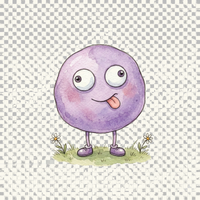
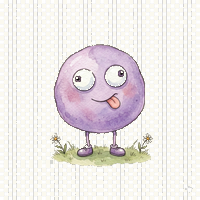
Kids: Szachownica usunięta — wykrycie i zamiana wmalowanych szarych pikseli na krem
Gemini generował 'przezroczystość' jako szare piksele (168,168,168) wmalowane
w obraz. Nowy algorytm wykrywa neutralne szare piksele (saturation<12,
value 140-210) i zamienia je na tło kremowe #FBF9EF. 29 obrazków przetworzonych.

diff --git a/kids/index.html b/kids/index.html
@@ -220,7 +220,7 @@ body{display:flex;justify-content:center;align-items:center}
 </script>
 <div id="app">
   <div id="start-screen" class="screen active">
-    <div class="start-character"><img src="img/zaehni-brush.png?v=3" alt="Zähni"></div>
+    <div class="start-character"><img src="img/zaehni-brush.png?v=4" alt="Zähni"></div>
     <div class="start-title"><h1>FRYDENT Kids</h1><div class="subtitle">Zahnspiele mit Zähni</div></div>
     <div class="divider"></div>
     <button class="start-btn" onclick="showScreen('age-screen');playSound('click')">Los geht's!</button>
@@ -231,15 +231,15 @@ body{display:flex;justify-content:center;align-items:center}
     <div class="age-header"><h2>Wähle deine Gruppe!</h2><p>Wie alt bist du?</p></div>
     <div class="age-cards">
       <div class="age-card" onclick="selectAge('tiny');playSound('click')">
-        <div class="age-card-icon"><img src="img/zaehni-welcome.png?v=3" alt=""></div>
+        <div class="age-card-icon"><img src="img/zaehni-welcome.png?v=4" alt=""></div>
         <div class="age-card-text"><h3 style="color:var(--rose)">Zahnzwerge</h3><div class="age-range">3 – 5 Jahre</div><div class="age-desc">Bläschen, Zähneputzen, Zuordnen &amp; mehr</div></div>
       </div>
       <div class="age-card" onclick="selectAge('mid');playSound('click')">
-        <div class="age-card-icon"><img src="img/zaehni-brush.png?v=3" alt=""></div>
+        <div class="age-card-icon"><img src="img/zaehni-brush.png?v=4" alt=""></div>
         <div class="age-card-text"><h3 style="color:var(--sage)">Zahnforscher</h3><div class="age-range">5 – 7 Jahre</div><div class="age-desc">Memory, Quiz &amp; Bakterien fangen</div></div>
       </div>
       <div class="age-card" onclick="selectAge('big');playSound('click')">
-        <div class="age-card-icon"><img src="img/zaehni-detective.png?v=3" alt=""></div>
+        <div class="age-card-icon"><img src="img/zaehni-detective.png?v=4" alt=""></div>
         <div class="age-card-text"><h3 style="color:var(--lavender)">Zahndetektive</h3><div class="age-range">7 – 10 Jahre</div><div class="age-desc">Großes Memory, Quiz, Jagd &amp; Diplom</div></div>
       </div>
     </div>
@@ -249,7 +249,7 @@ body{display:flex;justify-content:center;align-items:center}
     <div class="hub-header">
       <button class="btn-round" onclick="showScreen('age-screen');playSound('click')">←</button>
       <div class="hub-title"><h2 id="hub-group-name"></h2><div class="stars-display" id="hub-stars"></div></div>
-      <div class="hub-mascot"><img id="hub-mascot-img" src="img/zaehni-welcome.png?v=3" alt=""></div>
+      <div class="hub-mascot"><img id="hub-mascot-img" src="img/zaehni-welcome.png?v=4" alt=""></div>
     </div>
     <div class="hub-games" id="hub-games-grid"></div>
   </div>
@@ -263,7 +263,7 @@ body{display:flex;justify-content:center;align-items:center}
   </div>
 
   <div class="win-overlay" id="win-overlay">
-    <div class="win-character"><img src="img/trophy.png?v=3" alt=""></div>
+    <div class="win-character"><img src="img/trophy.png?v=4" alt=""></div>
     <div class="win-text"><h2 id="win-title">Super gemacht!</h2><p id="win-subtitle"></p></div>
     <div class="win-stars" id="win-stars"></div>
     <button class="win-btn" onclick="closeWin();playSound('click')">Weiter spielen</button>
@@ -290,26 +290,26 @@ function closeWin(){document.getElementById('win-overlay').classList.remove('act
 
 const GAMES={tiny:[{id:'bubbles',icon:'bubbles',name:'Bläschen platzen',desc:'Fang die Bläschen!',color:'var(--sky-light)'},{id:'brushing',icon:'brushing',name:'Zähne putzen',desc:'Putz alle Zähne sauber!',color:'var(--sage-light)'},{id:'matching',icon:'matching',name:'Was gehört zusammen?',desc:'Finde die 6 Paare!',color:'var(--lavender-light)'},{id:'gutschlecht',icon:'gutschlecht',name:'Gut oder Schlecht?',desc:'Was mögen deine Zähne?',color:'var(--honey-light)'},{id:'diplom',icon:'diplom',name:'Dein Diplom',desc:'Zahnzwerg-Urkunde!',color:'var(--rose-light)'}],mid:[{id:'memory-6',icon:'memory',name:'Memory',desc:'6 Paare finden',color:'var(--sage-light)'},{id:'quiz-easy',icon:'quiz',name:'Kleines Quiz',desc:'5 Fragen über Zähne',color:'var(--honey-light)'},{id:'bakterien-easy',icon:'bakterien',name:'Bakterien fangen',desc:'Fang sie in 25 Sekunden!',color:'var(--rose-light)'},{id:'matching',icon:'matching',name:'Zuordnen',desc:'6 Paare verbinden!',color:'var(--lavender-light)'},{id:'diplom',icon:'diplom',name:'Dein Diplom',desc:'Zahnforscher-Urkunde!',color:'var(--sky-light)'}],big:[{id:'memory-8',icon:'memory',name:'Memory',desc:'8 Paare — für Profis!',color:'var(--sage-light)'},{id:'quiz-hard',icon:'quiz',name:'Großes Zahnquiz',desc:'8 knifflige Fragen',color:'var(--honey-light)'},{id:'bakterien-hard',icon:'bakterien',name:'Bakterienjagd',desc:'30 Sekunden Jagd!',color:'var(--rose-light)'},{id:'diplom',icon:'diplom',name:'Dein Diplom',desc:'Zahndetektiv-Urkunde',color:'var(--lavender-light)'}]};
 const GN={tiny:'Zahnzwerge',mid:'Zahnforscher',big:'Zahndetektive'};
-const GM={tiny:'img/zaehni-welcome.png?v=3',mid:'img/zaehni-brush.png?v=3',big:'img/zaehni-detective.png?v=3'};
+const GM={tiny:'img/zaehni-welcome.png?v=4',mid:'img/zaehni-brush.png?v=4',big:'img/zaehni-detective.png?v=4'};
 
 function buildHub(){const games=GAMES[currentAge];document.getElementById('hub-group-name').textContent=GN[currentAge];document.getElementById('hub-mascot-img').src=GM[currentAge];const ts=getTotalStars();document.getElementById('hub-stars').textContent=ts>0?'⭐ '+ts+' Sterne':'Sammle Sterne!';document.getElementById('hub-games-grid').innerHTML=games.map(g=>'<div class="game-card" onclick="startGame(\''+g.id+'\');playSound(\'click\')"><span class="card-star '+(stars[g.id]?'earned':'')+'">⭐</span><div class="game-card-icon">'+ICONS[g.icon]+'</div><h3>'+g.name+'</h3><p>'+g.desc+'</p><div class="game-card-accent" style="background:'+g.color+'"></div></div>').join('')}
 
 function startGame(gid){currentGame=gid;document.getElementById('game-content').innerHTML='';if(gid.startsWith('memory-'))setupMemory(parseInt(gid.split('-')[1]));else if(gid.startsWith('quiz-'))setupQuiz(gid==='quiz-hard'?8:5);else if(gid.startsWith('bakterien-'))setupBakterien(gid==='bakterien-hard'?30:25);else if(gid==='diplom')setupDiplom();else if(gid==='bubbles')setupBubbles();else if(gid==='brushing')setupBrushing();else if(gid==='matching')setupMatching();else if(gid==='gutschlecht')setupGutSchlecht();showScreen('game-screen')}
 
-const MC=[{id:'toothbrush',img:'img/card-toothbrush.png?v=3',n:'Zahnbürste'},{id:'toothpaste',img:'img/card-toothpaste.png?v=3',n:'Zahnpasta'},{id:'apple',img:'img/card-apple.png?v=3',n:'Apfel'},{id:'water',img:'img/card-water.png?v=3',n:'Wasser'},{id:'tooth',img:'img/card-tooth.png?v=3',n:'Zahn'},{id:'hourglass',img:'img/card-hourglass.png?v=3',n:'Sanduhr'},{id:'floss',img:'img/card-floss.png?v=3',n:'Zahnseide'},{id:'mirror',img:'img/card-mirror.png?v=3',n:'Spiegel'}];
+const MC=[{id:'toothbrush',img:'img/card-toothbrush.png?v=4',n:'Zahnbürste'},{id:'toothpaste',img:'img/card-toothpaste.png?v=4',n:'Zahnpasta'},{id:'apple',img:'img/card-apple.png?v=4',n:'Apfel'},{id:'water',img:'img/card-water.png?v=4',n:'Wasser'},{id:'tooth',img:'img/card-tooth.png?v=4',n:'Zahn'},{id:'hourglass',img:'img/card-hourglass.png?v=4',n:'Sanduhr'},{id:'floss',img:'img/card-floss.png?v=4',n:'Zahnseide'},{id:'mirror',img:'img/card-mirror.png?v=4',n:'Spiegel'}];
 let memS={};
 function setupMemory(pc){document.getElementById('game-screen-title').textContent='Memory';const cards=MC.slice(0,pc);let deck=[...cards,...cards].map((c,i)=>({...c,uid:i}));for(let i=deck.length-1;i>0;i--){const j=Math.floor(Math.random()*(i+1));[deck[i],deck[j]]=[deck[j],deck[i]]}memS={deck,flipped:[],matched:[],moves:0,pairs:pc,locked:false};document.getElementById('game-screen-info').textContent='0 Züge · 0/'+pc+' Paare';const cols=pc<=6?3:4;document.getElementById('game-content').innerHTML='<div class="memory-grid" style="grid-template-columns:repeat('+cols+',1fr)">'+deck.map((c,i)=>'<div class="memory-card" data-i="'+i+'" onclick="flipC('+i+')"><div class="memory-card-inner"><div class="memory-back"><div class="memory-back-tex"></div><div class="memory-back-motif"></div></div><div class="memory-front"><img src="'+c.img+'" alt="'+c.n+'"></div></div></div>').join('')+'</div>'}
 function flipC(i){const s=memS;if(s.locked||s.flipped.includes(i)||s.matched.includes(i))return;document.querySelectorAll('.memory-card')[i].classList.add('flipped');s.flipped.push(i);playSound('click');if(s.flipped.length===2){s.moves++;s.locked=true;const[a,b]=s.flipped;if(s.deck[a].id===s.deck[b].id){setTimeout(()=>{document.querySelectorAll('.memory-card')[a].classList.add('matched');document.querySelectorAll('.memory-card')[b].classList.add('matched');s.matched.push(a,b);s.flipped=[];s.locked=false;playSound('match');updMI();if(s.matched.length===s.deck.length)setTimeout(memWin,500)},400)}else{setTimeout(()=>{document.querySelectorAll('.memory-card')[a].classList.remove('flipped');document.querySelectorAll('.memory-card')[b].classList.remove('flipped');s.flipped=[];s.locked=false;playSound('wrong');updMI()},850)}}}
 function updMI(){document.getElementById('game-screen-info').textContent=memS.moves+' Züge · '+memS.matched.length/2+'/'+memS.pairs+' Paare'}
 function memWin(){const sc=memS.moves<=memS.pairs*2?3:memS.moves<=memS.pairs*3?2:1;stars[currentGame]=true;saveStars();showWin('Alle Paare gefunden!','In '+memS.moves+' Zügen',sc)}
 
-const QA=[{q:'Wie oft solltest du am Tag Zähne putzen?',a:['Einmal','Zweimal','Dreimal','Gar nicht'],c:1,img:null},{q:'Was macht Zucker mit deinen Zähnen?',a:['Macht sie stärker','Bakterien machen Säure daraus','Putzt sie sauber','Gar nichts'],c:1,img:'img/food-candy.png?v=3'},{q:'Wie lange solltest du Zähne putzen?',a:['30 Sekunden','1 Minute','2 Minuten','5 Minuten'],c:2,img:'img/card-hourglass.png?v=3'},{q:'Was schützt deine Zähne vor Karies?',a:['Schokolade','Fluorid in der Zahnpasta','Limonade','Kaugummi'],c:1,img:'img/card-toothpaste.png?v=3'},{q:'Welches Essen ist gut für deine Zähne?',a:['Gummibärchen','Bonbons','Äpfel und Karotten','Eis'],c:2,img:'img/food-apple.png?v=3'},{q:'Wie oft solltest du zum Zahnarzt gehen?',a:['Jeden Tag','Einmal im Jahr','Zweimal im Jahr','Nur bei Schmerzen'],c:2,img:null},{q:'Was reinigt die Zahnzwischenräume?',a:['Nur die Zahnbürste','Zahnseide','Mundwasser','Wasser'],c:1,img:'img/card-floss.png?v=3'},{q:'Was passiert bei einer Professionellen Zahnreinigung?',a:['Zähne werden gezogen','Zähne werden gründlich gereinigt','Man bekommt neue Zähne','Zähne werden angemalt'],c:1,img:null},{q:'Was ist das beste Getränk für deine Zähne?',a:['Cola','Apfelsaft','Wasser','Limonade'],c:2,img:'img/food-water.png?v=3'},{q:'Was solltest du nach dem Essen von Süßigkeiten tun?',a:['Noch mehr essen','Zähne putzen','Limonade trinken','Schlafen gehen'],c:1,img:'img/food-chocolate.png?v=3'}];
+const QA=[{q:'Wie oft solltest du am Tag Zähne putzen?',a:['Einmal','Zweimal','Dreimal','Gar nicht'],c:1,img:null},{q:'Was macht Zucker mit deinen Zähnen?',a:['Macht sie stärker','Bakterien machen Säure daraus','Putzt sie sauber','Gar nichts'],c:1,img:'img/food-candy.png?v=4'},{q:'Wie lange solltest du Zähne putzen?',a:['30 Sekunden','1 Minute','2 Minuten','5 Minuten'],c:2,img:'img/card-hourglass.png?v=4'},{q:'Was schützt deine Zähne vor Karies?',a:['Schokolade','Fluorid in der Zahnpasta','Limonade','Kaugummi'],c:1,img:'img/card-toothpaste.png?v=4'},{q:'Welches Essen ist gut für deine Zähne?',a:['Gummibärchen','Bonbons','Äpfel und Karotten','Eis'],c:2,img:'img/food-apple.png?v=4'},{q:'Wie oft solltest du zum Zahnarzt gehen?',a:['Jeden Tag','Einmal im Jahr','Zweimal im Jahr','Nur bei Schmerzen'],c:2,img:null},{q:'Was reinigt die Zahnzwischenräume?',a:['Nur die Zahnbürste','Zahnseide','Mundwasser','Wasser'],c:1,img:'img/card-floss.png?v=4'},{q:'Was passiert bei einer Professionellen Zahnreinigung?',a:['Zähne werden gezogen','Zähne werden gründlich gereinigt','Man bekommt neue Zähne','Zähne werden angemalt'],c:1,img:null},{q:'Was ist das beste Getränk für deine Zähne?',a:['Cola','Apfelsaft','Wasser','Limonade'],c:2,img:'img/food-water.png?v=4'},{q:'Was solltest du nach dem Essen von Süßigkeiten tun?',a:['Noch mehr essen','Zähne putzen','Limonade trinken','Schlafen gehen'],c:1,img:'img/food-chocolate.png?v=4'}];
 let qS={};
 function setupQuiz(cnt){document.getElementById('game-screen-title').textContent=cnt<=5?'Kleines Quiz':'Großes Zahnquiz';document.getElementById('game-screen-info').textContent='Frage 1 von '+cnt;const qs=[...QA].sort(()=>Math.random()-.5).slice(0,cnt);qS={qs,cur:0,score:0,ans:false,total:cnt};renderQ()}
-function renderQ(){const q=qS.qs[qS.cur];const imgHtml=q.img?'<div style="width:110px;height:110px;margin:0 auto"><img src="'+q.img+'" style="width:100%;height:100%;object-fit:contain" alt=""></div>':'<div class="quiz-character"><img src="img/zaehni-detective.png?v=3" alt=""></div>';document.getElementById('game-content').innerHTML='<div class="quiz-container"><div class="quiz-progress"><div class="quiz-progress-bar" style="width:'+(qS.cur/qS.total*100)+'%"></div></div>'+imgHtml+'<div class="quiz-question"><h3>'+q.q+'</h3></div><div class="quiz-answers">'+q.a.map((a,i)=>'<button class="quiz-answer" onclick="ansQ('+i+')">'+a+'</button>').join('')+'</div><div class="quiz-feedback" id="qfb"></div></div>'}
+function renderQ(){const q=qS.qs[qS.cur];const imgHtml=q.img?'<div style="width:110px;height:110px;margin:0 auto"><img src="'+q.img+'" style="width:100%;height:100%;object-fit:contain" alt=""></div>':'<div class="quiz-character"><img src="img/zaehni-detective.png?v=4" alt=""></div>';document.getElementById('game-content').innerHTML='<div class="quiz-container"><div class="quiz-progress"><div class="quiz-progress-bar" style="width:'+(qS.cur/qS.total*100)+'%"></div></div>'+imgHtml+'<div class="quiz-question"><h3>'+q.q+'</h3></div><div class="quiz-answers">'+q.a.map((a,i)=>'<button class="quiz-answer" onclick="ansQ('+i+')">'+a+'</button>').join('')+'</div><div class="quiz-feedback" id="qfb"></div></div>'}
 function ansQ(i){if(qS.ans)return;qS.ans=true;const q=qS.qs[qS.cur],btns=document.querySelectorAll('.quiz-answer'),fb=document.getElementById('qfb');btns[q.c].classList.add('correct');if(i===q.c){qS.score++;playSound('correct');fb.textContent='✓ Richtig!';fb.style.color='#4a6a38'}else{btns[i].classList.add('wrong');playSound('wrong');fb.textContent='✗ Leider falsch!';fb.style.color='#8a4a42'}btns.forEach(b=>b.style.pointerEvents='none');setTimeout(()=>{qS.cur++;qS.ans=false;if(qS.cur>=qS.total){const sc=qS.score>=qS.total-1?3:qS.score>=qS.total*.6?2:1;stars[currentGame]=true;saveStars();showWin(qS.score>=qS.total-1?'Zahnexperte!':'Gut gemacht!',qS.score+' von '+qS.total+' richtig',sc)}else{document.getElementById('game-screen-info').textContent='Frage '+(qS.cur+1)+' von '+qS.total;renderQ()}},1400)}
 
-const BI=['img/bacteria-purple.png?v=3','img/bacteria-green.png?v=3','img/bacteria-orange.png?v=3','img/bacteria-pink.png?v=3'];
+const BI=['img/bacteria-purple.png?v=4','img/bacteria-green.png?v=4','img/bacteria-orange.png?v=4','img/bacteria-pink.png?v=4'];
 let bakterienState={timer:null,spawner:null};
 function setupBakterien(sec){document.getElementById('game-screen-title').textContent='Bakterien fangen';document.getElementById('game-screen-info').textContent=sec+' Sekunden';const mSvg='<svg viewBox="0 0 480 50" preserveAspectRatio="none"><path d="M0,30 Q40,15 80,28 Q120,38 160,25 Q200,15 240,30 Q280,40 320,22 Q360,12 400,28 Q440,38 480,25 L480,50 L0,50 Z" fill="rgba(168,200,184,.35)"/><path d="M0,38 Q60,28 120,36 Q180,44 240,34 Q300,26 360,38 Q420,46 480,32 L480,50 L0,50 Z" fill="rgba(138,154,107,.2)"/></svg>';document.getElementById('game-content').innerHTML='<div class="bakterien-arena" id="ba"><div class="arena-hud"><div class="hud-badge" id="bs">0 gefangen</div><div class="hud-badge" id="bt">'+sec+'s</div></div><div class="meadow">'+mSvg+'</div></div>';bakterienState={score:0,timeLeft:sec,timer:null,spawner:null,active:true};setTimeout(startB,400)}
 function startB(){const s=bakterienState;s.timer=setInterval(()=>{s.timeLeft--;const e=document.getElementById('bt');if(e)e.textContent=s.timeLeft+'s';if(s.timeLeft<=0){clearInterval(s.timer);clearInterval(s.spawner);s.active=false;const sc=s.score>=20?3:s.score>=12?2:1;stars[currentGame]=true;saveStars();showWin(s.score>=20?'Bakterienjäger!':'Gut gefangen!',s.score+' Bakterien erwischt',sc)}},1000);spawnB();s.spawner=setInterval(spawnB,750)}
@@ -321,24 +321,24 @@ function startBu(){const s=bubblesState;s.timer=setInterval(()=>{s.timeLeft--;co
 function spawnBub(){if(!bubblesState.active)return;const a=document.getElementById('bua');if(!a)return;const cs=['rgba(120,200,230,.65)','rgba(180,130,210,.6)','rgba(240,160,170,.55)','rgba(160,210,140,.55)','rgba(230,190,100,.55)','rgba(200,140,180,.6)'];const e=document.createElement('div');e.className='bubble';const sz=42+Math.random()*40;e.style.width=sz+'px';e.style.height=sz+'px';e.style.left=(8+Math.random()*(a.offsetWidth-sz-16))+'px';e.style.background='radial-gradient(circle at 35% 30%,rgba(255,255,255,.5),'+cs[Math.floor(Math.random()*cs.length)]+')';e.style.animationDuration=(3.5+Math.random()*2)+'s';e.addEventListener('pointerdown',ev=>{ev.preventDefault();if(e.classList.contains('popped'))return;e.classList.add('popped');bubblesState.score++;const sc=document.getElementById('bus');if(sc)sc.textContent=bubblesState.score+' geplatzt';playSound('pop');setTimeout(()=>e.remove(),300)});a.appendChild(e);setTimeout(()=>e.remove(),5500)}
 
 let brS={};
-function setupBrushing(){document.getElementById('game-screen-title').textContent='Zähne putzen';document.getElementById('game-screen-info').textContent='Male alle Zähne weiß!';brS={cleaned:0,total:14,painting:false};let upper='',lower='';for(let i=0;i<7;i++)upper+='<div class="brush-tooth" data-i="'+i+'"></div>';for(let i=7;i<14;i++)lower+='<div class="brush-tooth" data-i="'+i+'"></div>';document.getElementById('game-content').innerHTML='<div class="brush-area"><img src="img/zaehni-brush.png?v=3" style="width:80px;height:80px;object-fit:contain" alt=""><div class="brush-progress"><div class="brush-progress-bar" id="brbar" style="width:0%"></div></div><div class="brush-hint"><svg viewBox="0 0 20 20" fill="none"><path d="M10,4 L10,16" stroke="var(--bark-light)" stroke-width="1.5" stroke-linecap="round"/><path d="M6,8 L10,4 L14,8" stroke="var(--bark-light)" stroke-width="1.5" stroke-linecap="round" fill="none"/><path d="M6,12 L10,16 L14,12" stroke="var(--bark-light)" stroke-width="1.5" stroke-linecap="round" fill="none"/></svg>Wische mit dem Finger über die Zähne!</div><div class="brush-mouth" id="brush-mouth"><div class="tooth-row upper">'+upper+'</div><div class="tooth-row lower">'+lower+'</div></div></div>';const mouth=document.getElementById("brush-mouth");mouth.addEventListener("pointerdown",function(e){e.preventDefault();brS.painting=true;paintAt(e)});mouth.addEventListener("pointermove",function(e){e.preventDefault();if(brS.painting)paintAt(e)});mouth.addEventListener("pointerup",function(){brS.painting=false});mouth.addEventListener("pointerleave",function(){brS.painting=false})}
+function setupBrushing(){document.getElementById('game-screen-title').textContent='Zähne putzen';document.getElementById('game-screen-info').textContent='Male alle Zähne weiß!';brS={cleaned:0,total:14,painting:false};let upper='',lower='';for(let i=0;i<7;i++)upper+='<div class="brush-tooth" data-i="'+i+'"></div>';for(let i=7;i<14;i++)lower+='<div class="brush-tooth" data-i="'+i+'"></div>';document.getElementById('game-content').innerHTML='<div class="brush-area"><img src="img/zaehni-brush.png?v=4" style="width:80px;height:80px;object-fit:contain" alt=""><div class="brush-progress"><div class="brush-progress-bar" id="brbar" style="width:0%"></div></div><div class="brush-hint"><svg viewBox="0 0 20 20" fill="none"><path d="M10,4 L10,16" stroke="var(--bark-light)" stroke-width="1.5" stroke-linecap="round"/><path d="M6,8 L10,4 L14,8" stroke="var(--bark-light)" stroke-width="1.5" stroke-linecap="round" fill="none"/><path d="M6,12 L10,16 L14,12" stroke="var(--bark-light)" stroke-width="1.5" stroke-linecap="round" fill="none"/></svg>Wische mit dem Finger über die Zähne!</div><div class="brush-mouth" id="brush-mouth"><div class="tooth-row upper">'+upper+'</div><div class="tooth-row lower">'+lower+'</div></div></div>';const mouth=document.getElementById("brush-mouth");mouth.addEventListener("pointerdown",function(e){e.preventDefault();brS.painting=true;paintAt(e)});mouth.addEventListener("pointermove",function(e){e.preventDefault();if(brS.painting)paintAt(e)});mouth.addEventListener("pointerup",function(){brS.painting=false});mouth.addEventListener("pointerleave",function(){brS.painting=false})}
 function paintAt(e){const teeth=document.querySelectorAll(".brush-tooth");teeth.forEach(function(t){const r=t.getBoundingClientRect();if(e.clientX>=r.left&&e.clientX<=r.right&&e.clientY>=r.top&&e.clientY<=r.bottom){if(!t.classList.contains("clean")){if(!t.classList.contains("painting")){t.classList.add("painting");setTimeout(function(){t.classList.remove("painting");t.classList.add("clean");brS.cleaned++;playSound("pop");document.getElementById("brbar").style.width=(brS.cleaned/brS.total*100)+"%";if(brS.cleaned>=brS.total)setTimeout(function(){stars["brushing"]=true;saveStars();showWin("Alle Zähne sauber!","Super geputzt!",3)},400)},300)}}}})}
 
-const MP=[{img:'img/card-toothbrush.png?v=3',l:'Zahnbürste',m:'Zähne putzen'},{img:'img/card-toothpaste.png?v=3',l:'Zahnpasta',m:'Schutz vor Karies'},{img:'img/card-apple.png?v=3',l:'Apfel',m:'Gesunder Snack'},{img:'img/card-water.png?v=3',l:'Wasser',m:'Bestes Getränk'},{img:'img/card-hourglass.png?v=3',l:'Sanduhr',m:'2 Minuten putzen'},{img:'img/card-floss.png?v=3',l:'Zahnseide',m:'Zahnzwischenräume'}];
+const MP=[{img:'img/card-toothbrush.png?v=4',l:'Zahnbürste',m:'Zähne putzen'},{img:'img/card-toothpaste.png?v=4',l:'Zahnpasta',m:'Schutz vor Karies'},{img:'img/card-apple.png?v=4',l:'Apfel',m:'Gesunder Snack'},{img:'img/card-water.png?v=4',l:'Wasser',m:'Bestes Getränk'},{img:'img/card-hourglass.png?v=4',l:'Sanduhr',m:'2 Minuten putzen'},{img:'img/card-floss.png?v=4',l:'Zahnseide',m:'Zahnzwischenräume'}];
 let mS={};
 function setupMatching(){document.getElementById('game-screen-title').textContent='Was gehört zusammen?';document.getElementById('game-screen-info').textContent='0/6 Paare';mS={sel:null,matched:0,total:6};let ri=MP.map((p,i)=>({i,t:p.m}));for(let i=ri.length-1;i>0;i--){const j=Math.floor(Math.random()*(i+1));[ri[i],ri[j]]=[ri[j],ri[i]]}document.getElementById('game-content').innerHTML='<div class="matching-container"><p style="text-align:center;font-size:13px;color:var(--bark-light);font-style:italic;margin-bottom:4px">Verbinde Bild und Beschreibung!</p><div class="matching-row"><div class="matching-col">'+MP.map((p,i)=>'<div class="matching-item" data-s="l" data-i="'+i+'" onclick="sM(\'l\','+i+')"><img src="'+p.img+'" alt=""><span>'+p.l+'</span></div>').join('')+'</div><div class="matching-col">'+ri.map(r=>'<div class="matching-item" data-s="r" data-i="'+r.i+'" onclick="sM(\'r\','+r.i+')"><span style="font-size:14px">'+r.t+'</span></div>').join('')+'</div></div></div>'}
 function sM(side,idx){const el=document.querySelector('.matching-item[data-s="'+side+'"][data-i="'+idx+'"]');if(el.classList.contains('matched'))return;document.querySelectorAll('.matching-item[data-s="'+side+'"]').forEach(e=>e.classList.remove('selected'));el.classList.add('selected');playSound('click');if(!mS.sel||mS.sel.s===side){mS.sel={s:side,i:idx};return}const li=side==='l'?idx:mS.sel.i,ri=side==='r'?idx:mS.sel.i;if(li===ri){document.querySelector('.matching-item[data-s="l"][data-i="'+li+'"]').classList.add('matched');document.querySelector('.matching-item[data-s="r"][data-i="'+ri+'"]').classList.add('matched');document.querySelectorAll('.matching-item').forEach(e=>e.classList.remove('selected'));mS.matched++;mS.sel=null;playSound('match');document.getElementById('game-screen-info').textContent=mS.matched+'/'+mS.total+' Paare';if(mS.matched>=mS.total)setTimeout(()=>{stars['matching']=true;saveStars();showWin('Alles gefunden!','Du kennst dich aus!',3)},500)}else{playSound('wrong');setTimeout(()=>{document.querySelectorAll('.matching-item').forEach(e=>e.classList.remove('selected'));mS.sel=null},500)}}
 
-const GS_ITEMS=[{name:'Apfel',img:'img/food-apple.png?v=3',gut:true},{name:'Bonbon',img:'img/food-candy.png?v=3',gut:false},{name:'Karotte',img:'img/food-carrot.png?v=3',gut:true},{name:'Limonade',img:'img/food-lemonade.png?v=3',gut:false},{name:'Käse',img:'img/food-cheese.png?v=3',gut:true},{name:'Schokolade',img:'img/food-chocolate.png?v=3',gut:false},{name:'Wasser',img:'img/food-water.png?v=3',gut:true},{name:'Eis',img:'img/food-icecream.png?v=3',gut:false},{name:'Nüsse',img:'img/food-nuts.png?v=3',gut:true},{name:'Kuchen',img:'img/food-cake.png?v=3',gut:false}];
+const GS_ITEMS=[{name:'Apfel',img:'img/food-apple.png?v=4',gut:true},{name:'Bonbon',img:'img/food-candy.png?v=4',gut:false},{name:'Karotte',img:'img/food-carrot.png?v=4',gut:true},{name:'Limonade',img:'img/food-lemonade.png?v=4',gut:false},{name:'Käse',img:'img/food-cheese.png?v=4',gut:true},{name:'Schokolade',img:'img/food-chocolate.png?v=4',gut:false},{name:'Wasser',img:'img/food-water.png?v=4',gut:true},{name:'Eis',img:'img/food-icecream.png?v=4',gut:false},{name:'Nüsse',img:'img/food-nuts.png?v=4',gut:true},{name:'Kuchen',img:'img/food-cake.png?v=4',gut:false}];
 let gsS={};
 function setupGutSchlecht(){document.getElementById('game-screen-title').textContent='Gut oder Schlecht?';document.getElementById('game-screen-info').textContent='Frage 1 von 8';const items=[...GS_ITEMS].sort(()=>Math.random()-.5).slice(0,8);gsS={items,cur:0,score:0,ans:false,total:8};renderGS()}
-function renderGS(){const it=gsS.items[gsS.cur];document.getElementById('game-content').innerHTML='<div style="width:100%;max-width:340px;display:flex;flex-direction:column;align-items:center;gap:16px"><div style="width:100%;height:6px;background:var(--parchment-warm);border-radius:3px;overflow:hidden"><div style="height:100%;width:'+(gsS.cur/gsS.total*100)+'%;background:linear-gradient(90deg,var(--sage),var(--honey));border-radius:3px;transition:width .4s"></div></div><div style="text-align:center"><img src="img/zaehni-welcome.png?v=3" style="width:70px;height:70px;object-fit:contain" alt=""><p style="font-family:Quicksand,sans-serif;font-size:16px;font-weight:700;margin-top:6px">Ist das gut für deine Zähne?</p></div><div style="width:200px;height:200px;margin:4px auto"><img src="'+it.img+'" style="width:100%;height:100%;object-fit:contain;filter:drop-shadow(0 4px 10px rgba(90,78,66,.12))" alt="'+it.name+'"></div><div style="font-family:Quicksand,sans-serif;font-size:22px;font-weight:700;text-align:center;color:var(--bark)">'+it.name+'</div><div style="display:flex;gap:16px;margin-top:8px;width:100%"><button onclick="ansGS(true)" style="flex:1;padding:16px;border:2px solid var(--sage-light);border-radius:var(--radius);background:var(--cream);cursor:pointer;font-size:16px;font-family:Quicksand,sans-serif;font-weight:700;color:var(--sage);transition:all .2s"><span style="font-size:28px;display:block;margin-bottom:4px">😊</span>Gut!</button><button onclick="ansGS(false)" style="flex:1;padding:16px;border:2px solid var(--rose-light);border-radius:var(--radius);background:var(--cream);cursor:pointer;font-size:16px;font-family:Quicksand,sans-serif;font-weight:700;color:var(--rose);transition:all .2s"><span style="font-size:28px;display:block;margin-bottom:4px">😟</span>Schlecht!</button></div><div id="gsfb" style="text-align:center;font-weight:600;font-size:15px;min-height:36px"></div></div>'}
+function renderGS(){const it=gsS.items[gsS.cur];document.getElementById('game-content').innerHTML='<div style="width:100%;max-width:340px;display:flex;flex-direction:column;align-items:center;gap:16px"><div style="width:100%;height:6px;background:var(--parchment-warm);border-radius:3px;overflow:hidden"><div style="height:100%;width:'+(gsS.cur/gsS.total*100)+'%;background:linear-gradient(90deg,var(--sage),var(--honey));border-radius:3px;transition:width .4s"></div></div><div style="text-align:center"><img src="img/zaehni-welcome.png?v=4" style="width:70px;height:70px;object-fit:contain" alt=""><p style="font-family:Quicksand,sans-serif;font-size:16px;font-weight:700;margin-top:6px">Ist das gut für deine Zähne?</p></div><div style="width:200px;height:200px;margin:4px auto"><img src="'+it.img+'" style="width:100%;height:100%;object-fit:contain;filter:drop-shadow(0 4px 10px rgba(90,78,66,.12))" alt="'+it.name+'"></div><div style="font-family:Quicksand,sans-serif;font-size:22px;font-weight:700;text-align:center;color:var(--bark)">'+it.name+'</div><div style="display:flex;gap:16px;margin-top:8px;width:100%"><button onclick="ansGS(true)" style="flex:1;padding:16px;border:2px solid var(--sage-light);border-radius:var(--radius);background:var(--cream);cursor:pointer;font-size:16px;font-family:Quicksand,sans-serif;font-weight:700;color:var(--sage);transition:all .2s"><span style="font-size:28px;display:block;margin-bottom:4px">😊</span>Gut!</button><button onclick="ansGS(false)" style="flex:1;padding:16px;border:2px solid var(--rose-light);border-radius:var(--radius);background:var(--cream);cursor:pointer;font-size:16px;font-family:Quicksand,sans-serif;font-weight:700;color:var(--rose);transition:all .2s"><span style="font-size:28px;display:block;margin-bottom:4px">😟</span>Schlecht!</button></div><div id="gsfb" style="text-align:center;font-weight:600;font-size:15px;min-height:36px"></div></div>'}
 function ansGS(isGut){if(gsS.ans)return;gsS.ans=true;const correct=gsS.items[gsS.cur].gut===isGut;const fb=document.getElementById('gsfb');if(correct){gsS.score++;playSound('correct');fb.textContent='✓ Richtig!';fb.style.color='#4a6a38'}else{playSound('wrong');fb.textContent='✗ '+(gsS.items[gsS.cur].gut?'Das ist gut für Zähne!':'Das ist schlecht für Zähne!');fb.style.color='#8a4a42'}setTimeout(()=>{gsS.cur++;gsS.ans=false;if(gsS.cur>=gsS.total){const sc=gsS.score>=7?3:gsS.score>=5?2:1;stars['gutschlecht']=true;saveStars();showWin(gsS.score>=7?'Zahnprofi!':'Gut gemacht!',gsS.score+' von '+gsS.total+' richtig',sc)}else{document.getElementById('game-screen-info').textContent='Frage '+(gsS.cur+1)+' von '+gsS.total;renderGS()}},1400)}
 
-function setupDiplom(){document.getElementById('game-screen-title').textContent='Dein Diplom';document.getElementById('game-screen-info').textContent='';const ts=getTotalStars();const titles={tiny:'Zahnzwerg-Diplom',mid:'Zahnforscher-Diplom',big:'Zahnheld-Diplom'};const subtitles={tiny:'ein echter Zahnzwerg',mid:'ein echter Zahnforscher',big:'ein echter Zahnheld'};const dt=titles[currentAge]||'Zahnheld-Diplom';const ds=subtitles[currentAge]||'ein echter Zahnheld';const vine='<svg class="diplom-vine" viewBox="0 0 120 16"><path d="M10,8 Q30,2 45,8 Q55,12 65,8 Q75,4 85,8 Q95,12 110,8" fill="none" stroke="rgba(123,164,144,.3)" stroke-width="1.5"/><circle cx="25" cy="5" r="2.5" fill="rgba(193,123,110,.25)"/><circle cx="55" cy="10" r="2" fill="rgba(212,167,106,.3)"/><circle cx="85" cy="5" r="2.5" fill="rgba(168,139,174,.25)"/></svg>';document.getElementById('game-content').innerHTML='<div class="diplom-container"><div class="diplom-frame"><div class="diplom-corner"></div><div class="diplom-corner"></div><div class="diplom-corner"></div><div class="diplom-corner"></div><div class="diplom-character"><img src="img/zaehni-winner.png?v=3" alt="" style="width:90px;height:90px;object-fit:contain"></div><div style="width:160px;z-index:1;margin:-8px 0"><img src="img/trophy.png?v=3" alt="" style="width:100%;object-fit:contain"></div><div class="diplom-title">'+dt+'</div>'+vine+'<div class="diplom-text">Hiermit wird bestätigt, dass</div><input type="text" class="diplom-name-input" id="dn" placeholder="Dein Name" maxlength="20"><div class="diplom-text">alle Zahnspiele gemeistert hat<br>und '+ds+' ist!</div><div class="diplom-stars">'+'⭐'.repeat(Math.min(ts,8))+'</div>'+vine+'<div class="diplom-praxis">FRYDENT Zahnarztpraxis · Bonndorf im Schwarzwald<br>'+new Date().toLocaleDateString('de-DE')+'</div></div><button class="diplom-btn" onclick="printD()">Diplom drucken</button></div>'}
+function setupDiplom(){document.getElementById('game-screen-title').textContent='Dein Diplom';document.getElementById('game-screen-info').textContent='';const ts=getTotalStars();const titles={tiny:'Zahnzwerg-Diplom',mid:'Zahnforscher-Diplom',big:'Zahnheld-Diplom'};const subtitles={tiny:'ein echter Zahnzwerg',mid:'ein echter Zahnforscher',big:'ein echter Zahnheld'};const dt=titles[currentAge]||'Zahnheld-Diplom';const ds=subtitles[currentAge]||'ein echter Zahnheld';const vine='<svg class="diplom-vine" viewBox="0 0 120 16"><path d="M10,8 Q30,2 45,8 Q55,12 65,8 Q75,4 85,8 Q95,12 110,8" fill="none" stroke="rgba(123,164,144,.3)" stroke-width="1.5"/><circle cx="25" cy="5" r="2.5" fill="rgba(193,123,110,.25)"/><circle cx="55" cy="10" r="2" fill="rgba(212,167,106,.3)"/><circle cx="85" cy="5" r="2.5" fill="rgba(168,139,174,.25)"/></svg>';document.getElementById('game-content').innerHTML='<div class="diplom-container"><div class="diplom-frame"><div class="diplom-corner"></div><div class="diplom-corner"></div><div class="diplom-corner"></div><div class="diplom-corner"></div><div class="diplom-character"><img src="img/zaehni-winner.png?v=4" alt="" style="width:90px;height:90px;object-fit:contain"></div><div style="width:160px;z-index:1;margin:-8px 0"><img src="img/trophy.png?v=4" alt="" style="width:100%;object-fit:contain"></div><div class="diplom-title">'+dt+'</div>'+vine+'<div class="diplom-text">Hiermit wird bestätigt, dass</div><input type="text" class="diplom-name-input" id="dn" placeholder="Dein Name" maxlength="20"><div class="diplom-text">alle Zahnspiele gemeistert hat<br>und '+ds+' ist!</div><div class="diplom-stars">'+'⭐'.repeat(Math.min(ts,8))+'</div>'+vine+'<div class="diplom-praxis">FRYDENT Zahnarztpraxis · Bonndorf im Schwarzwald<br>'+new Date().toLocaleDateString('de-DE')+'</div></div><button class="diplom-btn" onclick="printD()">Diplom drucken</button></div>'}
 function printD(){const nm=document.getElementById('dn').value||'Zahnheld';const ts=getTotalStars();stars['diplom']=true;saveStars();const titles={tiny:'Zahnzwerg-Diplom',mid:'Zahnforscher-Diplom',big:'Zahnheld-Diplom'};const subs={tiny:'ein echter Zahnzwerg',mid:'ein echter Zahnforscher',big:'ein echter Zahnheld'};const dt=titles[currentAge]||'Zahnheld-Diplom';const ds=subs[currentAge]||'ein echter Zahnheld';const w=window.open('','_blank');w.document.write('<!DOCTYPE html><html><head><meta charset="UTF-8"><link href="https://fonts.googleapis.com/css2?family=Quicksand:wght@500;600;700&family=Nunito:wght@400;600;700&display=swap" rel="stylesheet"><style>body{display:flex;justify-content:center;align-items:center;min-height:100vh;margin:0;font-family:"Nunito",sans-serif;background:#FAF6EF}.d{width:560px;padding:50px 40px;text-align:center;background:#FFFCF5;border:2px solid #E8CFA0;border-radius:16px;position:relative}.d::before{content:"";position:absolute;inset:10px;border:1.5px solid #A8C8B8;border-radius:12px}.d::after{content:"";position:absolute;inset:14px;border:1px dashed #F5E8CE;border-radius:10px}h1{font-family:"Quicksand",sans-serif;color:#7BA490;font-size:28px;margin:16px 0 8px}h2{font-family:"Quicksand",sans-serif;color:#D4A76A;font-size:30px;margin:12px 0}p{color:#8A7E72;font-size:15px;line-height:1.6;font-style:italic}.s{font-size:24px;letter-spacing:5px;margin:14px 0}.f{font-size:12px;color:#aaa;margin-top:20px;font-style:normal}@media print{body{background:white}}</style></head><body><div class="d"><p style="font-size:13px;font-style:normal">✿ ✿ ✿</p><h1>'+dt+'</h1><p>Hiermit wird bestätigt, dass</p><h2>'+nm+'</h2><p>alle Zahnspiele bei FRYDENT Kids erfolgreich gemeistert hat und nun '+ds+' ist!</p><div class="s">'+'⭐'.repeat(Math.min(ts,8))+'</div><p style="font-size:12px;margin-top:12px;font-style:normal">✿ ✿ ✿</p><div class="f">FRYDENT Zahnarztpraxis · Martinstraße 4 · 79848 Bonndorf im Schwarzwald<br>'+new Date().toLocaleDateString('de-DE')+'</div></div><script>setTimeout(()=>window.print(),500)<\/script></body></html>')}
 
-[...MC.map(c=>c.img),...BI,'img/zaehni-welcome.png?v=3','img/zaehni-brush.png?v=3','img/zaehni-winner.png?v=3','img/zaehni-detective.png?v=3','img/trophy.png?v=3','img/food-apple.png?v=3','img/food-candy.png?v=3','img/food-carrot.png?v=3','img/food-lemonade.png?v=3','img/food-cheese.png?v=3','img/food-chocolate.png?v=3','img/food-water.png?v=3','img/food-icecream.png?v=3','img/food-nuts.png?v=3','img/food-cake.png?v=3'].forEach(s=>{const i=new Image();i.src=s});
+[...MC.map(c=>c.img),...BI,'img/zaehni-welcome.png?v=4','img/zaehni-brush.png?v=4','img/zaehni-winner.png?v=4','img/zaehni-detective.png?v=4','img/trophy.png?v=4','img/food-apple.png?v=4','img/food-candy.png?v=4','img/food-carrot.png?v=4','img/food-lemonade.png?v=4','img/food-cheese.png?v=4','img/food-chocolate.png?v=4','img/food-water.png?v=4','img/food-icecream.png?v=4','img/food-nuts.png?v=4','img/food-cake.png?v=4'].forEach(s=>{const i=new Image();i.src=s});
 // SW disabled - cache nuke active
 </script>
 </body>
